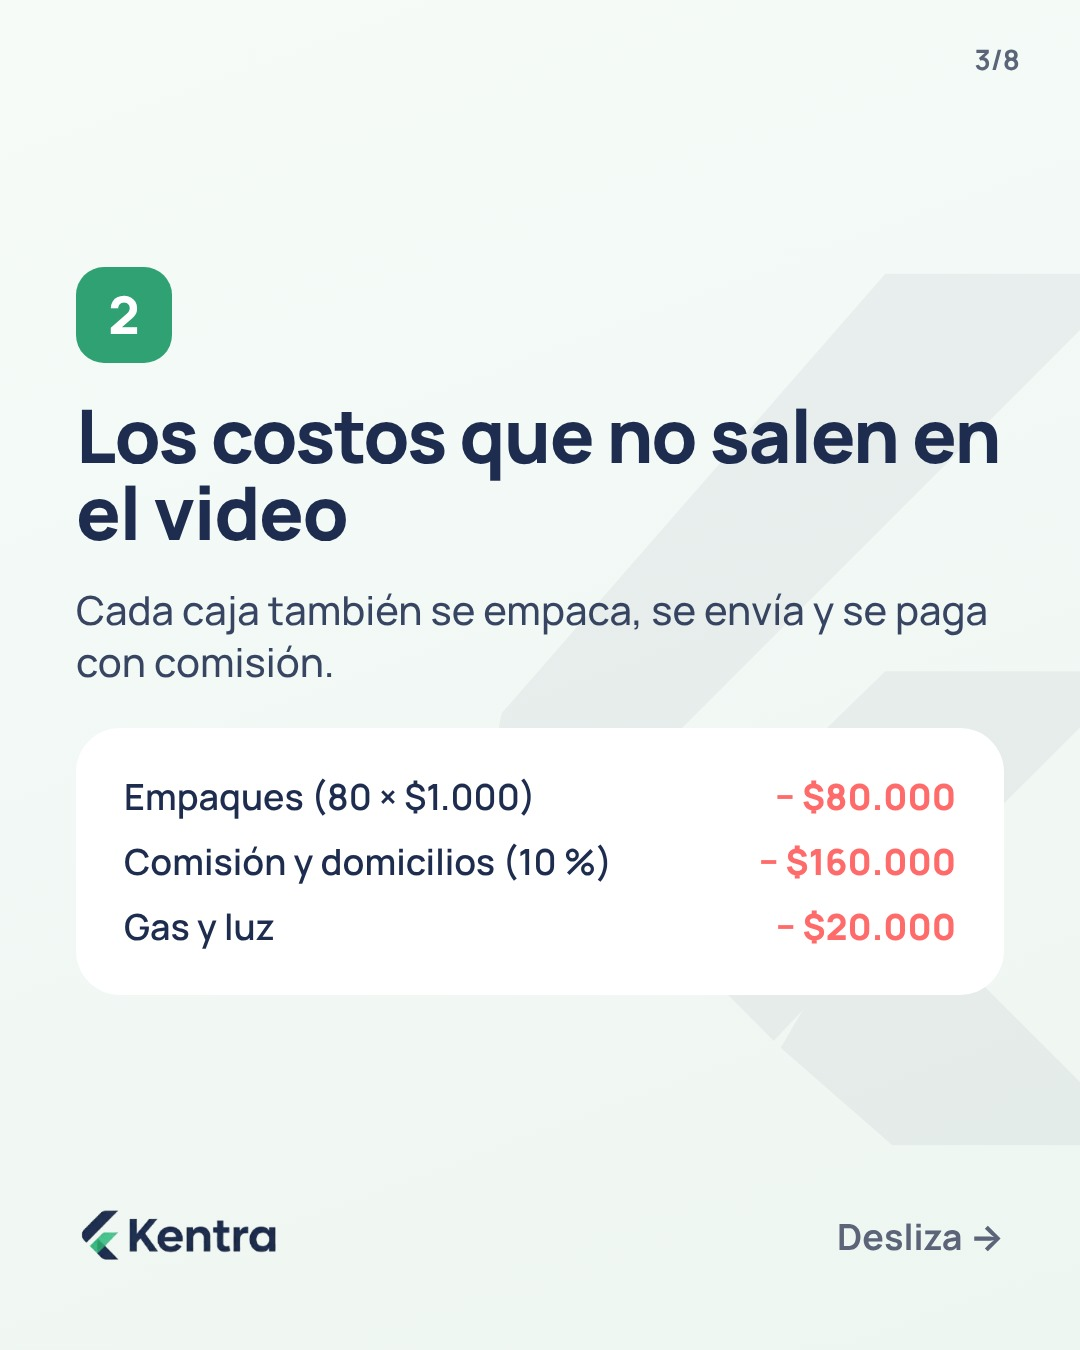
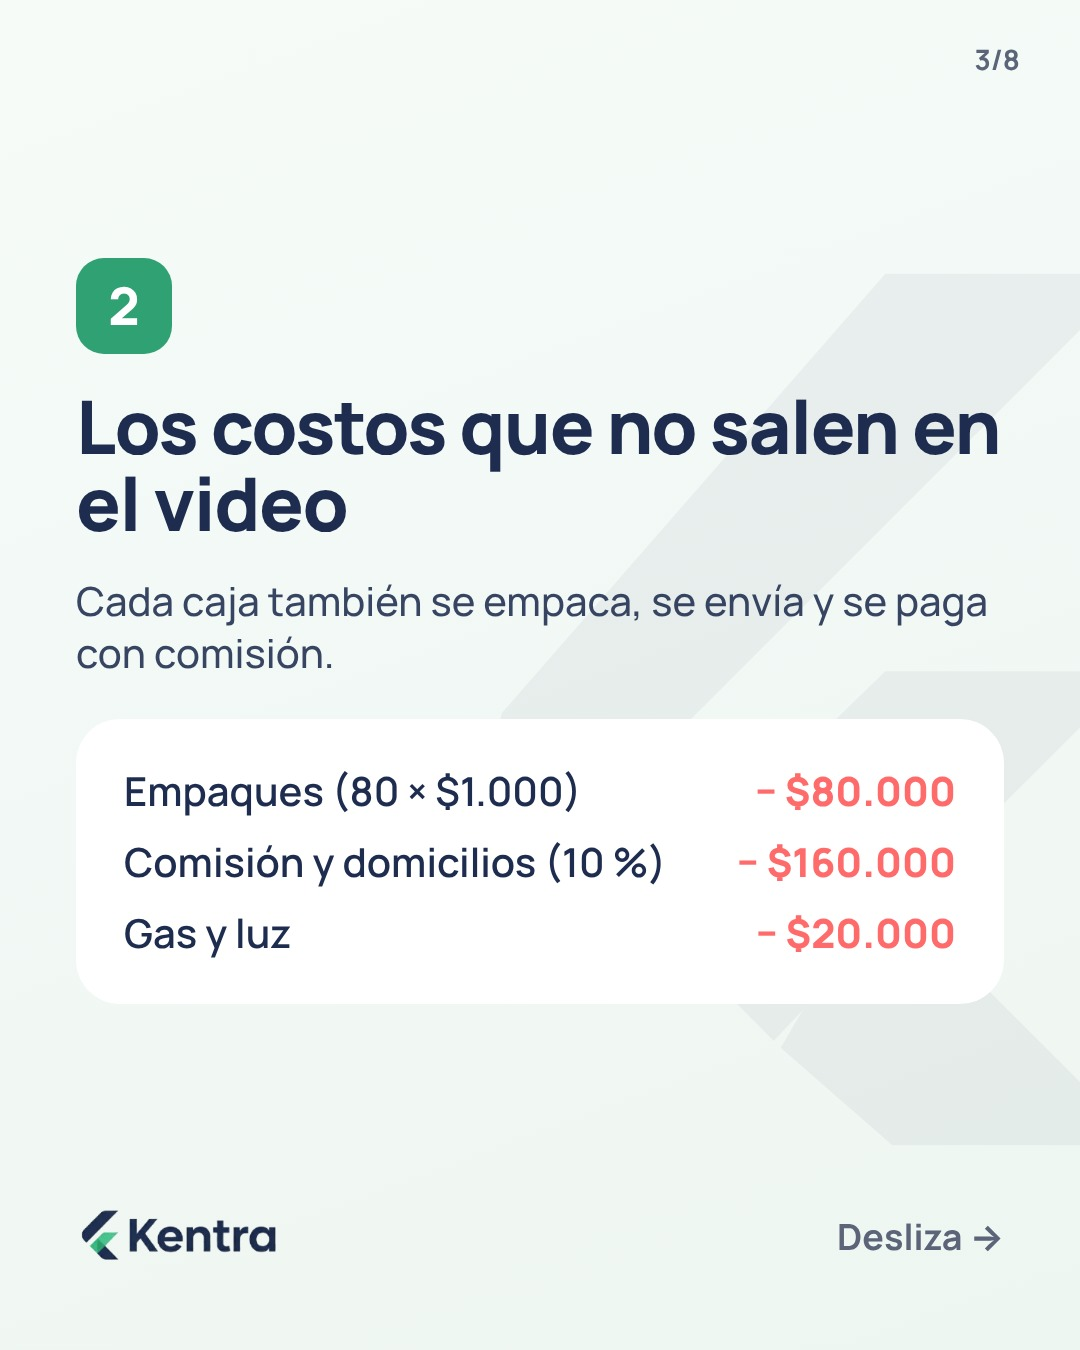
QA Karol: 0 agendadas, 1 corregida (carrusel 25 oct v3: letra a 40 px y mascota sin pantalla)

diff --git a/memoria.md b/memoria.md
@@ -52,3 +52,4 @@ Regla: registrar hechos y hipótesis, no opiniones. Una línea por aprendizaje, 
 - **24 oct (noche, corrida de respaldo de Balvin)**: Karol abrió «[Cupos vacíos semana 2026-10-26]»: el lunes 26 no tenía pieza aprobada (sus 5 piezas estaban en `calendario.json` desde el 18 oct, sin QA, y se iban a publicar solas). Se sacaron a `cola_qa.json` y se mandaron a Karol en 5 tickets. Antes se corrigió lo que ella devolvería por C2/C3: el lunes tenía 4 mockups de la misma pantalla `categorias` (historia 08:00, portada del carrusel, slide 7 y post 10:00) y la historia de las 19:00 era una `pregunta` sin número, igual en layout+paleta a las de 24 y 25 oct. Quedó: 08:00 `tweet` verdeoscuro «Vendí bien el fin de semana» (modela @tukutukuperu, reinvertir la venta), 10:00 `app` insumos +12 % (modela @carlos_alarcon_e, error concreto con cifra), 12:00 carrusel con portada verdeoscuro sin mockup (modela @andresgarzam, precio por costo vs cuenta completa), 18:00 `versus` (modela @finanzas__3.0, antes/después), 19:00 `mito` noche «si subo el precio pierdo clientes» (modela @alrinconoficial, postura contra una creencia). Lección: las piezas anteriores al 20 oct que sigan en `calendario.json` sin `qa` se publican solas; revisar siempre la primera semana del calendario, no solo la cola. Karol avisó que su sesión no puede abrir imágenes del repo: desde hoy los tickets llevan también los enlaces raw.githubusercontent.com (repo público). Siguen sin APROBADO las 72 piezas (26 oct – 8 nov) y las 2 reservas: si Karol no aprueba antes de cada hora, esos cupos quedan vacíos (no hay reservas aprobadas para taparlos).
 - **25 oct (domingo, corrida de respaldo de Balvin)**: Karol respondió las 5 piezas del lunes 26: aprobó el `versus` de las 18:00 (ya en `calendario.json`) y devolvió 4. Correcciones: el `tweet` llevaba el pie y el @kentra.pro a ~28 px (se subió a 40 px en la plantilla, para historias y posts, y se re-renderizaron los otros 3 tweets en cola: 29 oct 18:00, 2 nov 10:00, 7 nov 08:00); el `mito` de las 19:00 repetía el ángulo de insumos (tres piezas del día) → v3 con otra creencia («Mucha venta = mucha ganancia», 9 % de $12.000.000); el post `app` de las 10:00 y el slide 7 del carrusel usaban la pantalla inventada `categorias` (regla de Gato: en Kentra toda pantalla es una CAPTURA REAL de holding-tagoo/marcas/kentra/capturas) → el post se rehizo como `pizarra` marfil de cuentas por cobrar ($2.300.000, modela @oscarfigueroa340) y el slide 7 como `dato` claro con las tres cifras del mes (sin pantalla). Reglas que quedan: nunca tres piezas del mismo día sobre el mismo tema (insumos); texto de pie ≥ 40 px; no prometer «alertas por categoría» ni funciones que no se vean en una captura; mientras no haya capturas reales en `marca/capturas/`, no usar `app` ni `portada` con visual app (hay un layout `captura` listo en `render.mjs` que lee `marca/capturas/<archivo>`). Bloqueo: Balvin sigue sin acceso a holding-tagoo (ni add_repo ni la API de GitHub lo permiten en la sesión) → ticket [Coordinar] a Karol pidiendo copiar las capturas y los logos al repo. Las piezas en cola con mockup `app` (28 oct 08:00 y 12:00, varias del 2–8 nov) van a caer por lo mismo: cuando lleguen las capturas, re-renderizar con `captura` antes de que Karol las revise. El domingo 25 sigue con 5 piezas del 11 oct en `calendario.json` sin QA (se publican solas): se le avisó a Karol en el mismo ticket, sin sacarlas para no dejar el día vacío.
 - **25 oct (domingo, segunda corrida de respaldo de Balvin, 07:30 Bogotá)**: por orden de Karol las 5 piezas del domingo 25 (producidas el 11 oct, sin QA) salieron de `calendario.json` antes de las 08:00 y se rehicieron como v2 sin pantallas inventadas (`app`/`ui`) y con referencia con url: 08:00 `reparto` menta «La semana cerró en $2.800.000, ¿cuánto es tuyo?» (salón, 27 % tuyo; modela @davisemprende), 10:00 `recibo` blanco «¿Me deja dinero vender jugos?» (jugo de $9.000 deja $3.000; modela @rossybouchot), 12:00 carrusel «¿$200.000 se vuelven $1.600.000?» (fresas con chocolate: con empaques, comisión y tus horas quedan $900.000 = 4,5×, no 8×; slide 7 `dato` del mes; modela @frutillas.unlam), 18:00 `meme` noche «Cliente: “Uy, está caro”. Yo, que ya hice la cuenta» (modela @marilynmachiz, uso sugerido por Sky), 19:00 `antes` verdeoscuro «Tu domingo, antes y después de llevar las cuentas» con botón al quiz (modela @finanzas__3.0). Las 5 van a Karol en tickets nuevos; el cupo de las 08:00 queda vacío salvo que Karol apruebe antes de las 12 h de tolerancia del publicador; no hay reservas aprobadas para tapar nada. No repetir hasta el 29 de noviembre: reparto de la semana del salón, jugo de $9.000, fresas con chocolate, «está caro», domingo antes/después. Hallazgo de render: `recibo` post aguanta 5 ítems + `nota` de 2 líneas sin `pie`; `reparto` historia con título de 47 caracteres cabe en 3 líneas.
+- **25 oct (domingo, corrida de respaldo 07:50 Bogotá)**: Karol devolvió el carrusel del domingo 12:00 (fresas con chocolate) por letra bajo 40 px (filas de las tarjetas `valor` a 36 px, etiqueta del ejemplo a 28 px, notas del `dato` a 30 px) y por la pantalla dibujada del celular de la mascota en el cierre (R15: sin captura real no hay pantalla). Arreglo en `render.mjs` para todas las piezas futuras: filas de `ejemplo` en `valor` a 40 px (post e historia), título del ejemplo a 40 px, notas de `dato` a 40 px y etiquetas `.fila .l` a 40 px; el cierre lleva `"mascota": "telefono"` (celular de espaldas, sin pantalla) hasta que lleguen las capturas reales. v3 en QA de Karol. Regla que queda: en los cierres `mascota` de carrusel usar `telefono`, nunca `app`, mientras no haya `marca/capturas/`. Las piezas en cola con `valor`+ejemplo o `dato`+nota siguen con la letra vieja hasta que se re-rendericen (si Karol las devuelve, basta re-renderizar).
